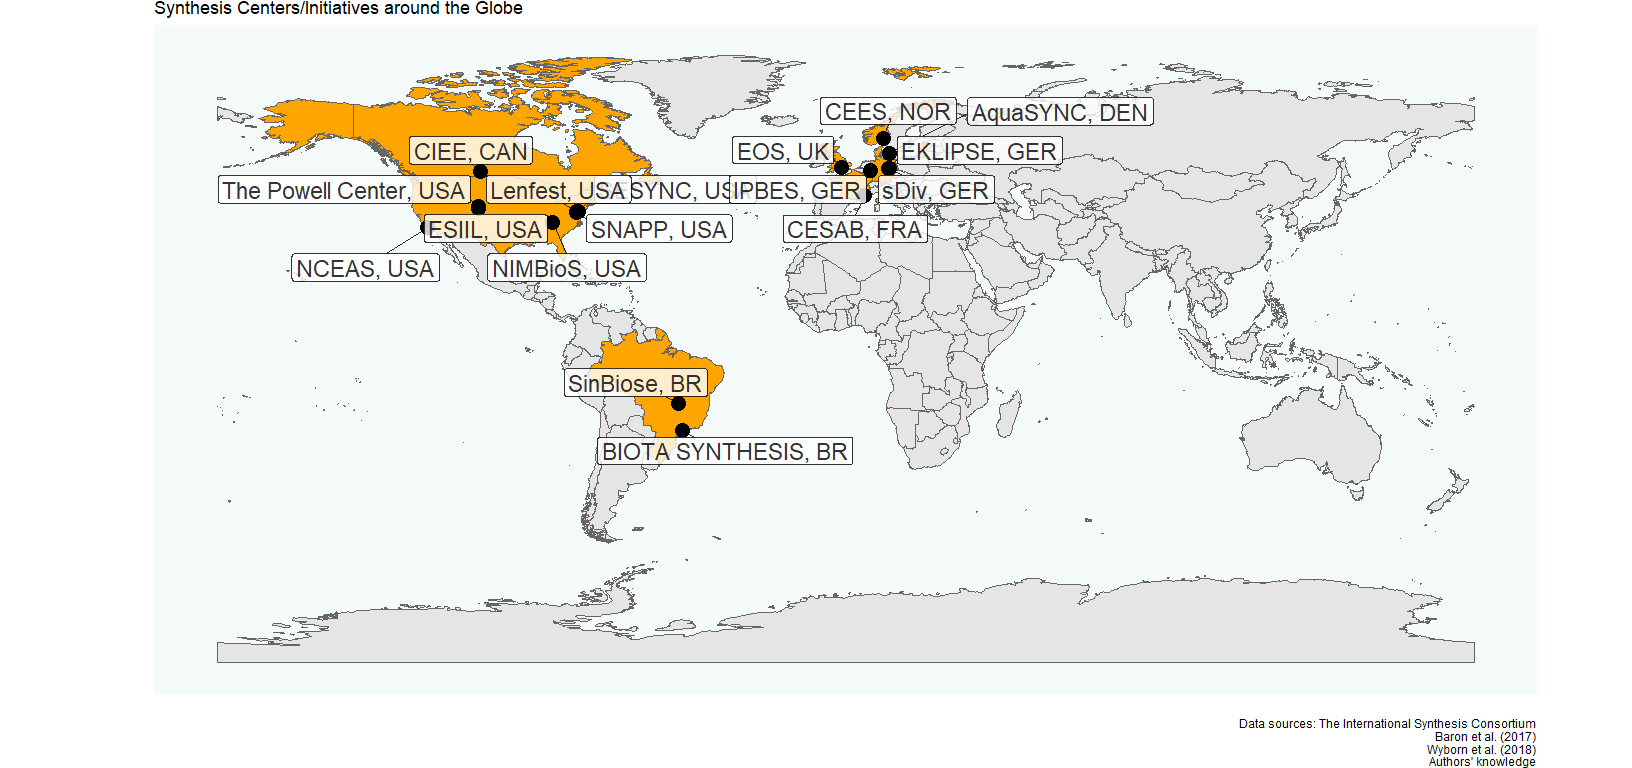
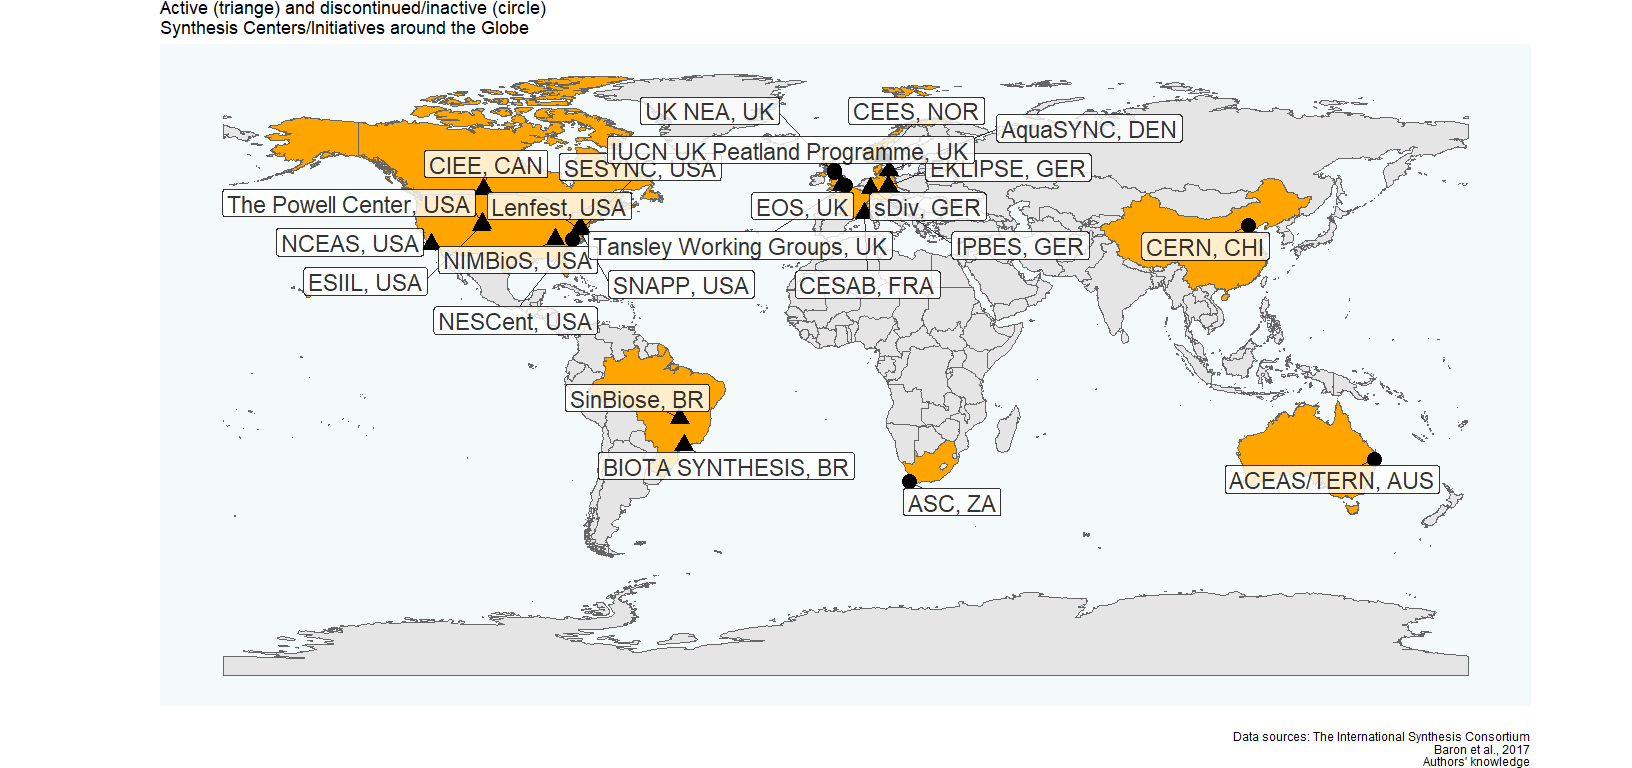
update in data and readme

diff --git a/README.md b/README.md
@@ -6,16 +6,13 @@ A.L. Luza et al. in prep.
 <!-- README.md is generated from README.Rmd. Please edit that file -->
 <!-- badges: start -->
 <!-- badges: end -->
-
-<img src="README_files/figure-gfm/unnamed-chunk-1-1.png" width="120%" height="120%" style="display: block; margin: auto;" />
-
 <!-- badges: start -->
 <!-- badges: end -->
 
-The map showing active and inactive/discontinued synthesis
-centers/initiatives.
+The map with all synthesis centers and initiatives that ever existed
+(both active and inactive/discontinued).
 
-<img src="README_files/figure-gfm/unnamed-chunk-2-1.png" width="120%" height="120%" style="display: block; margin: auto;" />
+<img src="README_files/figure-gfm/unnamed-chunk-1-1.png" width="120%" height="120%" style="display: block; margin: auto;" />
 
 #### These maps were produced using the following software and associated packages:
 
